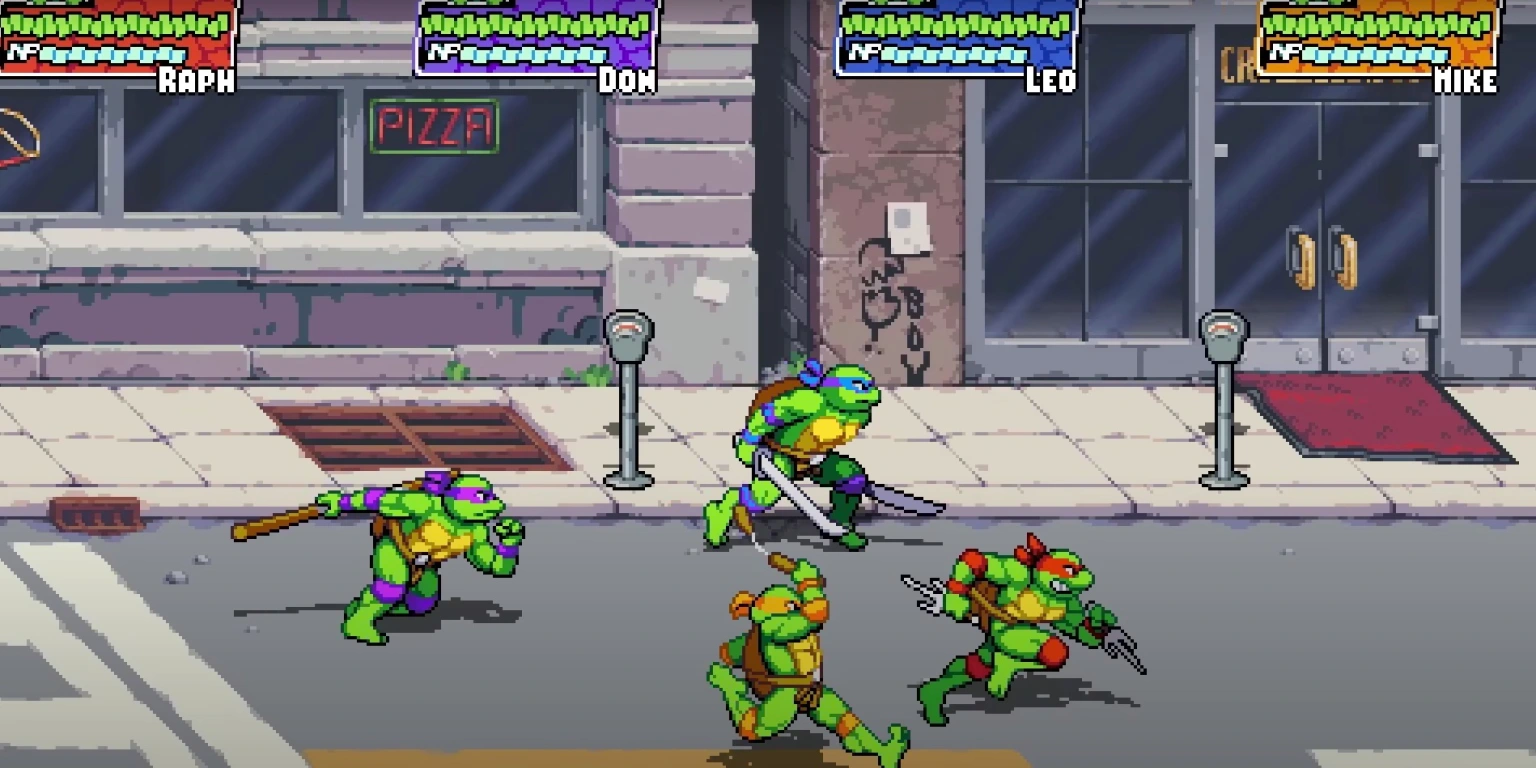
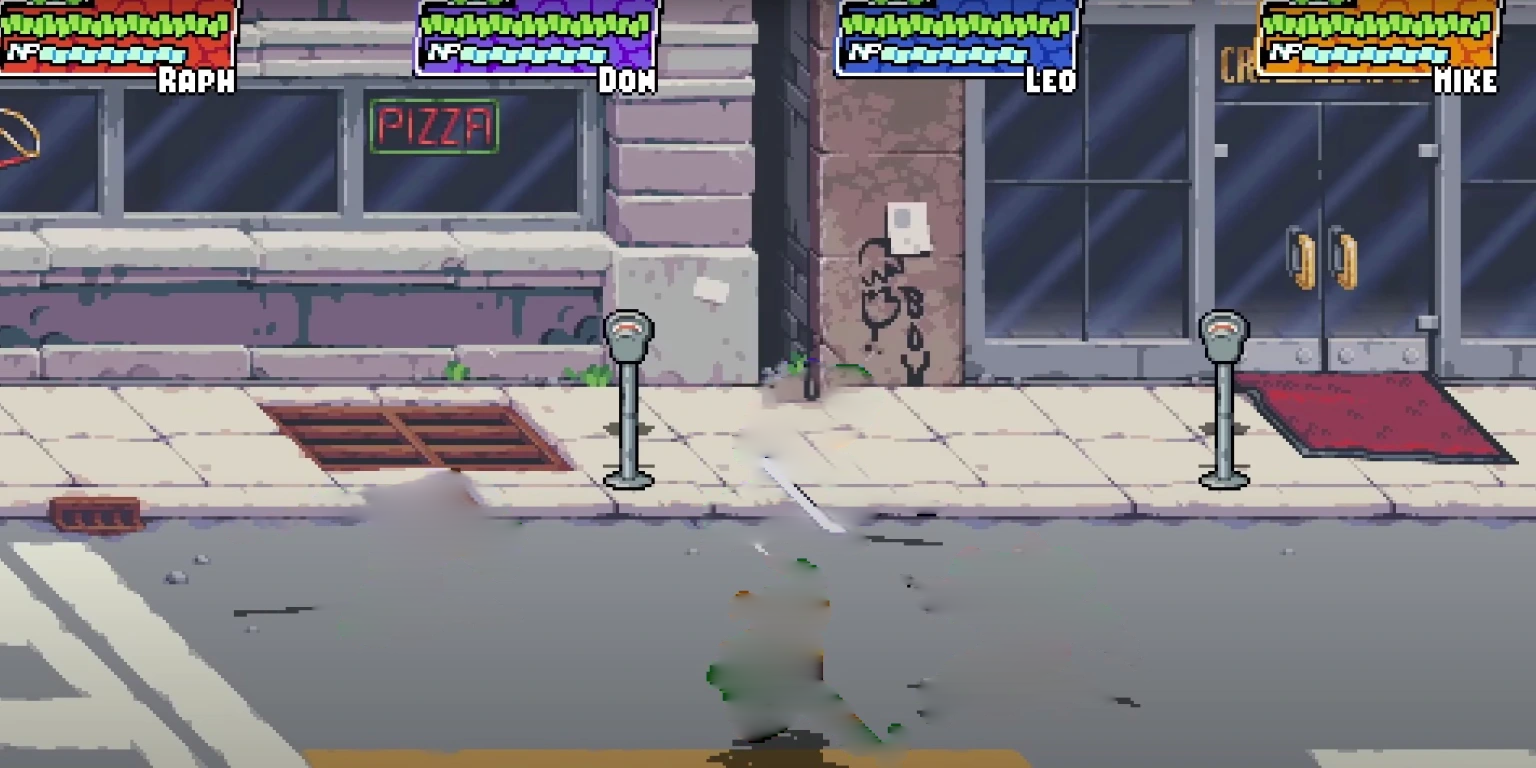
venom here added with animations

Changed region(s): [[0.4375, 0.4688, 0.75, 1.0], [0.125, 0.5938, 0.3438, 0.8438]]

diff --git a/src/game.c b/src/game.c
@@ -19,10 +19,14 @@ int main(int argc, char * argv[])
     Sprite *sprite;
     
     int mx,my;
+    int count = 0;
     float mf = 0;
     Sprite *mouse;
     Vector4D mouseColor = {255,100,255,200};
     TileMap *tilemap;
+    Entity* player;
+    Entity* enemy;
+    Entity* card;
     
     /*program initializtion*/
     init_logger("gf2d.log");
@@ -44,9 +48,8 @@ int main(int argc, char * argv[])
     /*demo setup*/
     sprite = gf2d_sprite_load_image("images/backgrounds/turtles.png");
     mouse = gf2d_sprite_load_all("images/pointer.png",32,32,16);
-    magik_new(vector2d(300, 300));
-    magik_ball_new(vector2d(350, 350));
-    //bug_ent_new(vector2d(500,300));
+    player = magik_new(vector2d(300, 300));
+    enemy = bug_ent_new(vector2d(500,300));
     //tilemap = tilemap_load("levels/testlevel.json");
 
     /*main game loop*/
@@ -78,6 +81,18 @@ int main(int argc, char * argv[])
                 &mouseColor,
                 (int)mf);
         gf2d_grahics_next_frame();// render current draw frame and skip to the next frame
+        
+
+        //card attack
+        if (keys[SDL_SCANCODE_E] && count == 0)
+        {
+            card = magik_ball_new(vector2d(player->position.x + 50, player->position.y));
+            count = 1;
+        }
+        if (keys[SDL_SCANCODE_R])
+        {
+            count = 0;
+        }
         
         if (keys[SDL_SCANCODE_ESCAPE])done = 1; // exit condition
        // slog("Rendering at %f FPS",gf2d_graphics_get_frames_per_second());

diff --git a/src/bug_ent.c b/src/bug_ent.c
@@ -9,7 +9,7 @@ void bug_think(Entity *self)
     const Uint8 *keys;
     if (!self)return;
     self->frame = (self->frame + 0.1);
-    if (self->frame >= 16)self->frame = 0;
+    if (self->frame >= 4)self->frame = 0;
     
     SDL_GetMouseState(&mx,&my);
     direction.x = mx - self->position.x;
@@ -19,7 +19,7 @@ void bug_think(Entity *self)
     
     keys = SDL_GetKeyboardState(NULL); // get the keyboard state for this frame
     
-    if (keys[SDL_SCANCODE_W])
+   /* if (keys[SDL_SCANCODE_W])
     {
         // move forward
         vector2d_set_magnitude(&direction,3);
@@ -32,7 +32,7 @@ void bug_think(Entity *self)
         {
             vector2d_clear(self->velocity);
         }
-    }
+    }*/
 
 }
 
@@ -45,7 +45,7 @@ Entity *bug_ent_new(Vector2D position)
         slog("no space for bugs");
         return NULL;
     }
-    ent->sprite = gf2d_sprite_load_all("images/space_bug_top.png",128,128,16);
+    ent->sprite = gf2d_sprite_load_all("images/skull_enemie.png",44,38,4);
     ent->think = bug_think;
     ent->draw_offset.x = -64;
     ent->draw_offset.y = -64;

diff --git a/src/magik_ball.c b/src/magik_ball.c
@@ -8,16 +8,18 @@ void magik_ball_think(Entity* self)
 	int mx, my;
 	float angle;
 	const Uint8* keys;
-	//return if not magik ent
+	//return if not magik ball ent
 	if (!self)return;
-	self->frame = (self->frame + 0.1);
+	self->frame = (self->frame + .1);
 	//set frame length
-	if (self->frame >= 6)self->frame = 0;
+	if (self->frame >= 1)self->frame = 1;
 
 
 	//get the keyboard state
 	keys = SDL_GetKeyboardState(NULL); //get the keyboard for this frame
+	self->velocity.x = 5;
 
+	if (self->position.x >= 1500)entity_free(self);
 
 }
 
@@ -30,7 +32,7 @@ Entity* magik_ball_new(Vector2D position)
 		slog("no space for magik_ball homie");
 		return NULL;
 	}
-	ent->sprite = gf2d_sprite_load_all("images/magik_ball.png", 66, 84, 6);
+	ent->sprite = gf2d_sprite_load_all("images/Gambit_cards.png", 41, 28, 2);
 	ent->think = magik_ball_think;
 	ent->draw_offset.x = -64;
 	ent->draw_offset.y = -64;

diff --git a/include/entity.h b/include/entity.h
@@ -15,7 +15,11 @@ typedef struct ENTITY_S
     Vector3D    rotation;   /**<how to rotate the sprite*/
     Vector2D    draw_scale;  /**<the scale factor for drawing the sprite*/
     Vector2D    mins,maxs;  /**<describe the bounding box around this entity*/
+    float       health;     /**entity health*/
+    int         frame_limit; /**used fr animations*/
+    int         player_state; /**0 for load, 1 = idle, 2 = walking, 3 = jump, 4 = attack, etc. */
     void (*think)(struct ENTITY_S *self);   /**<a pointer to a think function for this entity*/
+    void (*update)(struct ENTITY_S* self); //update thingy
 }Entity;
 
 

diff --git a/src/entity.c b/src/entity.c
@@ -69,6 +69,29 @@ Entity *entity_new()
     return NULL;
 }
 
+void entity_update(Entity* ent)
+{
+    if (!ent)return;
+    //generic upkeep
+
+    if (ent->update)
+    {
+        ent->update(ent);
+    }
+
+}
+
+void entity_manager_update_all()
+{
+    int i;
+    for (i = 0; i < entity_manager.max_entities; i++)
+    {
+        if (!entity_manager.entity_list[i]._inuse)continue;
+        entity_update(&entity_manager.entity_list[i]);
+    }
+}
+
+
 void entity_think(Entity *ent)
 {
     if (!ent)return;
